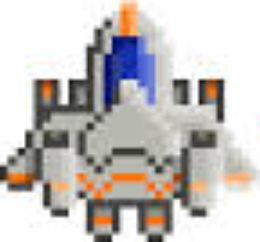
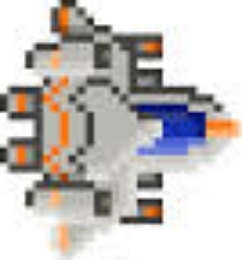
[Jaraguard][phaser] -Adicionando score , lives e colisões by inimigo tipo 1 FASE 1

diff --git a/phaser/Jaraguard/js/Mapa.js b/phaser/Jaraguard/js/Mapa.js
@@ -23,33 +23,48 @@ var cursors;
 var hozMove = 300;
 var vertMove = -300;
 var cursors;
+
+
+var scoreText;
+var score;
+var lives;
+var liveText;
+var playerVidas;
+var tiroInimigo;
+var explosoes;
+var animacaoPlayer;
+var espaco;
 Mapa.prototype.preload = function() {
 
     game.load.image('tiles', 'assets/tileset_fase_1.png', 22, 32);
     game.load.image('tiles2', 'assets/tileset_fase_1 - Retrovertido.png', 22, 32);
-    game.load.image('nave', 'assets/phaser-ship.png');
+    game.load.image('nave', 'assets/player.png');
     game.load.tilemap('map', 'assets/mapa_fase_01.json', null, Phaser.Tilemap.TILED_JSON);
     game.load.image('inimigoTipo1', 'assets/invader.png');
-    game.load.image('bullet', 'assets/tiroplayer.png');
+    game.load.image('tiroplayer', 'assets/tiroplayer.png');
+    game.load.image('tiroInimigo', 'assets/tiroInimigo.png');
     game.load.image('canhao', 'assets/canhaoplayer.png');
+    game.load.image('espaco', 'assets/espaco.png');
+    game.load.image('playerVidas', 'assets/playerVida.png');
+    game.load.spritesheet('explosao', 'assets/explosao.png', 128, 128);
+    game.load.spritesheet('animacaoPlayer', 'assets/Player45x33.png', 45, 33);
 };
 
 Mapa.prototype.create = function() {
 
     //  game.physics.startSystem(Phaser.Physics.NINJA);
+    espaco = game.add.image(0, 0, 'espaco');
+    espaco.fixedToCamera = true;
     game.physics.startSystem(Phaser.Physics.ARCADE);
     //  game.stage.backgroundColor = '#FFB90F';
     game.world.setBounds(0, 0, 2400, 2400);
+    //caracteristicas do mapa
     this.map = game.add.tilemap('map');
-
     this.tileset = this.map.addTilesetImage('tileset_fase_1', 'tiles');
     this.tileset2 = this.map.addTilesetImage('tileset_fase_1 - Retrovertido', 'tiles2');
-
     this.layer = this.map.createLayer('Camada de Tiles 1');
     this.layerColisao = this.map.createLayer('Camada de Colisao');
-
     this.layer.resizeWorld();
-
     this.map.setCollision([12, 21, 22, 46, 110, 118, 141, 360, 1108, 1131, 1237, 1228, 1203], true, 'Camada de Colisao');
 
     //inimigo
@@ -59,7 +74,7 @@ Mapa.prototype.create = function() {
     this.map.createFromObjects('Camada de Objetos 1', 1249, 'inimigoTipo1', 0, true, false, this.inimigoTipo1);
 
     //jogador = nave
-    this.player = game.add.sprite(0, game.world.height - 300, 'nave');
+    this.player = game.add.sprite(30, game.world.height - 300, 'nave');
     this.player.anchor.setTo(0.5, 0.5);
     game.physics.enable(this.player, Phaser.Physics.ARCADE);
     game.camera.follow(this.player);
@@ -68,11 +83,20 @@ Mapa.prototype.create = function() {
     this.tirosPlayer = game.add.group();
     this.tirosPlayer.enableBody = true;
     this.tirosPlayer.physicsBodyType = Phaser.Physics.ARCADE;
-    this.tirosPlayer.createMultiple(500, 'bullet');
+    this.tirosPlayer.createMultiple(500, 'tiroplayer');
     this.tirosPlayer.setAll('anchor.x', 0.5);
     this.tirosPlayer.setAll('anchor.y', 1);
     this.tirosPlayer.setAll('outOfBoundsKill', true);
 
+    // Tiro inimigo 
+    tiroInimigo = game.add.group();
+    tiroInimigo.enableBody = true;
+    tiroInimigo.physicsBodyType = Phaser.Physics.ARCADE;
+    tiroInimigo.createMultiple(30, 'tiroInimigo');
+    tiroInimigo.setAll('anchor.x', 0.5);
+    tiroInimigo.setAll('anchor.y', 1);
+    tiroInimigo.setAll('outOfBoundsKill', true);
+    tiroInimigo.setAll('checkWorldBounds', true);
     //  canhao da nossa nave
     canhao = game.add.group();
     canhao.enableBody = true;
@@ -81,6 +105,32 @@ Mapa.prototype.create = function() {
     canhao.setAll('anchor.x', 0.5);
     canhao.setAll('anchor.y', 1);
     canhao.setAll('outOfBoundsKill', true);
+
+    //  Pontuação
+    score = 0;
+    scoreText = game.add.text(30, game.world.centerY + 300, '' + score, {font: '34px Arial', fill: '#fff'});
+    // scoreText.visible = true;
+
+    // inicializar explosoes
+    explosoes = game.add.group();
+    explosoes.createMultiple(100, 'explosao');
+    explosoes.forEach(this.inicializarAnimacaoExplosao, this);
+
+    // inicializar animacaoPlayer
+    animacaoPlayer = game.add.group();
+    animacaoPlayer.createMultiple(100, 'animacaoPlayer');
+    animacaoPlayer.forEach(this.inicializarAnimacaoPlayer, this);
+
+
+    //  Vidas
+    lives = 2;
+    liveText = game.add.text(30, game.world.centerY + 300, ' x ' + lives, {font: '34px Arial', fill: '#fff'});
+    playerVidas = game.add.sprite(30, game.world.height - 300, 'playerVidas');
+    playerVidas.angle = 0;
+    playerVidas.alpha = 1;
+
+
+
 
 
     cursors = game.input.keyboard.createCursorKeys();
@@ -92,6 +142,7 @@ Mapa.prototype.create = function() {
 Mapa.prototype.update = function() {
 
     game.angle += 0.1;
+    this.poscionaPontuacao();
     //inicializa velocidade
     this.player.body.velocity.setTo(0, 0);
     //colisoes
@@ -131,12 +182,49 @@ Mapa.prototype.update = function() {
     }
 
 };
+Mapa.prototype.poscionaPontuacao = function() {
+    //posicao do score seguindo a camera
+    scoreText.x = game.camera.x + 120;
+    scoreText.y = game.camera.y + 6;
+    //posiciona imagem da nave 
+    playerVidas.x = game.camera.x + 250;
+    playerVidas.y = game.camera.y + 10;
+    //posicao das vidas alinhado  ao score 
+    liveText.x = game.camera.x + 280;
+    liveText.y = game.camera.y + 6;
+
+}
 Mapa.prototype.testeColisao = function() {
     console.log("pos colisao");
 };
 Mapa.prototype.colisaoByNaveByInimigo = function(player, inimigo) {
-
     inimigo.kill();
+
+// cria as explosao inimigo
+    var explosion = explosoes.getFirstExists(false);
+    explosion.reset(inimigo.body.x, inimigo.body.y);
+    explosion.play('explosao', 30, false, true);
+
+    // cria as explosao da nave
+    var explosion2 = explosoes.getFirstExists(false);
+    explosion2.reset(player.body.x, player.body.y);
+    explosion2.play('explosao', 30, false, true);
+    
+    //decrementa uma vida
+    this.controleVidas();
+ 
+    if (lives < 1)
+    {
+   player.kill();
+//    //    enemyBullets.callAll('kill');
+//
+//        stateText.text = " GAME OVER \n Click to restart";
+//        stateText.visible = true;
+//
+//        //the "click to restart" handler
+//        game.input.onTap.addOnce(restart, this);
+    }
+
 
 };
 Mapa.prototype.tiroCanhao = function() {
@@ -152,15 +240,23 @@ Mapa.prototype.tiroCanhao = function() {
 };
 
 Mapa.prototype.tiroNormal = function() {
+
     if (game.time.now > tiroTime)
     {
+
         //  Grab the first bullet we can from the pool
         tiro = this.tirosPlayer.getFirstExists(false);
 
+        // cria  Animacao Player
+        var animacaoplay = animacaoPlayer.getFirstExists(false);
+
+
         if (tiro)
         {
+            animacaoplay.reset(this.player.body.x + 25, this.player.body.y + 15);
+            animacaoplay.play('animacaoPlayer', 125, false, true);
             //  And fire it
-            tiro.reset(this.player.x, this.player.y + 8);
+            tiro.reset(this.player.x + 12, this.player.y + 8);
             tiro.body.velocity.x = +400;
             tiroTime = game.time.now + 200;
         }
@@ -171,5 +267,35 @@ Mapa.prototype.tiroNormal = function() {
 Mapa.prototype.colisaoBytirosPlayerByinimigoTipo1 = function(tiro, inimigoTipo1) {
     tiro.kill();
     inimigoTipo1.kill();
-
+    // cria as explosao :)
+    var explosion = explosoes.getFirstExists(false);
+    explosion.reset(inimigoTipo1.body.x, inimigoTipo1.body.y);
+    explosion.play('explosao', 30, false, true);
+    //pontuacao
+    this.pontuacao(20);
 };
+
+Mapa.prototype.inicializarAnimacaoExplosao = function(objetoAux) {
+
+    objetoAux.anchor.x = 0.5;
+    objetoAux.anchor.y = 0.5;
+    objetoAux.animations.add('explosao');
+};
+
+Mapa.prototype.inicializarAnimacaoPlayer = function(objetoAux) {
+
+    objetoAux.anchor.x = 0.5;
+    objetoAux.anchor.y = 0.5;
+    objetoAux.animations.add('animacaoPlayer');
+};
+
+Mapa.prototype.pontuacao = function(pontuacao) {
+    score += pontuacao;
+    scoreText.text = score;
+};
+
+Mapa.prototype.controleVidas = function() {
+    lives -= 1;
+    liveText.text =' x '+lives;
+};
+

diff --git a/phaser/Jaraguard/js/Splash.js b/phaser/Jaraguard/js/Splash.js
@@ -12,33 +12,33 @@ Splash.prototype.preload = function() {
 Splash.prototype.create = function() {
 	var fundo = game.add.sprite(0, 0, 'splashTeam');
 	fundo.alpha = 0;
-	
-	var fadein = game.add.tween(fundo).to( { alpha: 1 }, 2000, Phaser.Easing.Linear.None, true, 0, 0, true);
-	setTimeout(function() {
-		var fadeout = game.add.tween(fundo).to( { alpha: 0 }, 2000, Phaser.Easing.Linear.None, true, 0, 0, true);
-		fadeout.onComplete.add(function() {
-			var music;
-			music = game.add.audio('Splash_Sound',1,false);
-
-		    music.play('',0,1,true);
-			fundo.x = game.width/2;
-			fundo.y = game.height/2;
-			fundo = game.add.sprite(0, 0, 'splashGame');
-//			fundo.anchor.setTo(0.5,0.5);
-			
-//			fundo.loadTexture('splashGame');
-//			fundo.animations.add('blink', ['title1_532-111.png', 'title2_532-111.png'], 15, true, false);
-//			fundo.animations.play('blink');
-			var fadein = game.add.tween(fundo).to( { alpha: 1 }, 2000, Phaser.Easing.Linear.None, true, 0, 0, true);
-			
-			setTimeout(function() {
-				var fadeout = game.add.tween(fundo).to( { alpha: 0 }, 2000, Phaser.Easing.Linear.None, true, 0, 0, true);
-				fadeout.onComplete.add(function(){
-					console.log("menu");
-					music.pause();
-					game.state.start('menu', Menu);
-				});
-			}, 2500);
-		});
-	}, 3000);
+	game.state.start('menu', Menu);
+	//var fadein = game.add.tween(fundo).to( { alpha: 1 }, 2000, Phaser.Easing.Linear.None, true, 0, 0, true);
+//	setTimeout(function() {
+//		var fadeout = game.add.tween(fundo).to( { alpha: 0 }, 2000, Phaser.Easing.Linear.None, true, 0, 0, true);
+//		fadeout.onComplete.add(function() {
+//			var music;
+//			music = game.add.audio('Splash_Sound',1,false);
+//
+//		    music.play('',0,1,true);
+//			fundo.x = game.width/2;
+//			fundo.y = game.height/2;
+//			fundo = game.add.sprite(0, 0, 'splashGame');
+////			fundo.anchor.setTo(0.5,0.5);
+//			
+////			fundo.loadTexture('splashGame');
+////			fundo.animations.add('blink', ['title1_532-111.png', 'title2_532-111.png'], 15, true, false);
+////			fundo.animations.play('blink');
+//			var fadein = game.add.tween(fundo).to( { alpha: 1 }, 2000, Phaser.Easing.Linear.None, true, 0, 0, true);
+//			
+//			setTimeout(function() {
+//				var fadeout = game.add.tween(fundo).to( { alpha: 0 }, 2000, Phaser.Easing.Linear.None, true, 0, 0, true);
+//				fadeout.onComplete.add(function(){
+//					console.log("menu");
+//					music.pause();
+//					game.state.start('menu', Menu);
+//				});
+//			}, 2500);
+//		});
+//	}, 3000);
 };

diff --git a/phaser/Jaraguard/js/TesteNinja.js b/phaser/Jaraguard/js/TesteNinja.js
@@ -1,0 +1,85 @@
+var Ninja = {};
+
+Ninja = function() {
+};
+
+
+Ninja.prototype.preload = function() {
+
+    game.load.image('tiles', 'assets/tileset_fase_1.png');
+    game.load.image('tiles2', 'assets/tileset_fase_1 - Retrovertido.png');
+    game.load.image('nave', 'assets/phaser-ship.png');
+    game.load.tilemap('map', 'assets/mapateste.json', null, Phaser.Tilemap.TILED_JSON);
+    game.load.image('sky', 'assets/sky2.png');
+
+
+};
+
+var sprite1;
+var cursors;
+var map;
+var layer;
+var tiles;
+var layerColisao;
+
+Ninja.prototype.create = function() {
+
+    var sky = game.add.image(0, 0, 'sky');
+    sky.fixedToCamera = true;
+
+    //  Activate the Ninja physics system
+    game.physics.startSystem(Phaser.Physics.NINJA);
+
+    map = game.add.tilemap('map');
+    map.addTilesetImage('tiles');
+    //  map.addTilesetImage('tiles2');
+    layer = map.createLayer('Camada de Tiles 1');
+    // layerColisao = map.createLayer('Camada de Colisao');
+
+    layer.resizeWorld();
+    //  layerColisao.resizeWorld();
+
+    var slopeMap = {'5':2 ,'54':2 };
+
+    tiles = game.physics.ninja.convertTilemap(map, layer, slopeMap);
+
+    sprite1 = game.add.sprite(50, 50, 'nave');
+
+    game.physics.ninja.enableCircle(sprite1, sprite1.width / 2);
+
+    //  A little more bounce
+    sprite1.body.bounce = 0.5;
+
+    game.camera.follow(sprite1);
+
+    cursors = game.input.keyboard.createCursorKeys();
+
+};
+
+Ninja.prototype.update = function() {
+
+    for (var i = 0; i < tiles.length; i++)
+    {
+        sprite1.body.circle.collideCircleVsTile(tiles[i].tile);
+
+    }
+
+    if (cursors.left.isDown)
+    {
+        sprite1.body.moveLeft(20);
+    }
+    else if (cursors.right.isDown)
+    {
+        sprite1.body.moveRight(20);
+    }
+
+    if (cursors.up.isDown)
+    {
+        sprite1.body.moveUp(20);
+    }
+    else if (cursors.down.isDown)
+    {
+        sprite1.body.moveUp(20);
+    }
+
+};

diff --git a/phaser/Jaraguard/index.html b/phaser/Jaraguard/index.html
@@ -47,8 +47,8 @@
                 var btPlay = 'assets/buttons/btPlay_147-33.png';
                 var btPlaySelected = 'assets/buttons/btPlaySelected_147-33.png';
                 //game.load.image('btPlaySelected', btPlaySelected);
-                /*  game.load.audio('Menu_Sound', audioSplashMenu);  --sem musica por enquanto
-                 game.load.audio('Splash_Sound', audioSplashGame); */
+                 game.load.audio('Menu_Sound', audioSplashMenu);  
+                 game.load.audio('Splash_Sound', audioSplashGame); 
 
                 //game.load.atlas('enemy1', 'assets/spritesheets/enemy1.png', 'assets/spritesheets/enemy1.json');
                 //game.load.image('bullet','assets/bullet_4-9.png');
